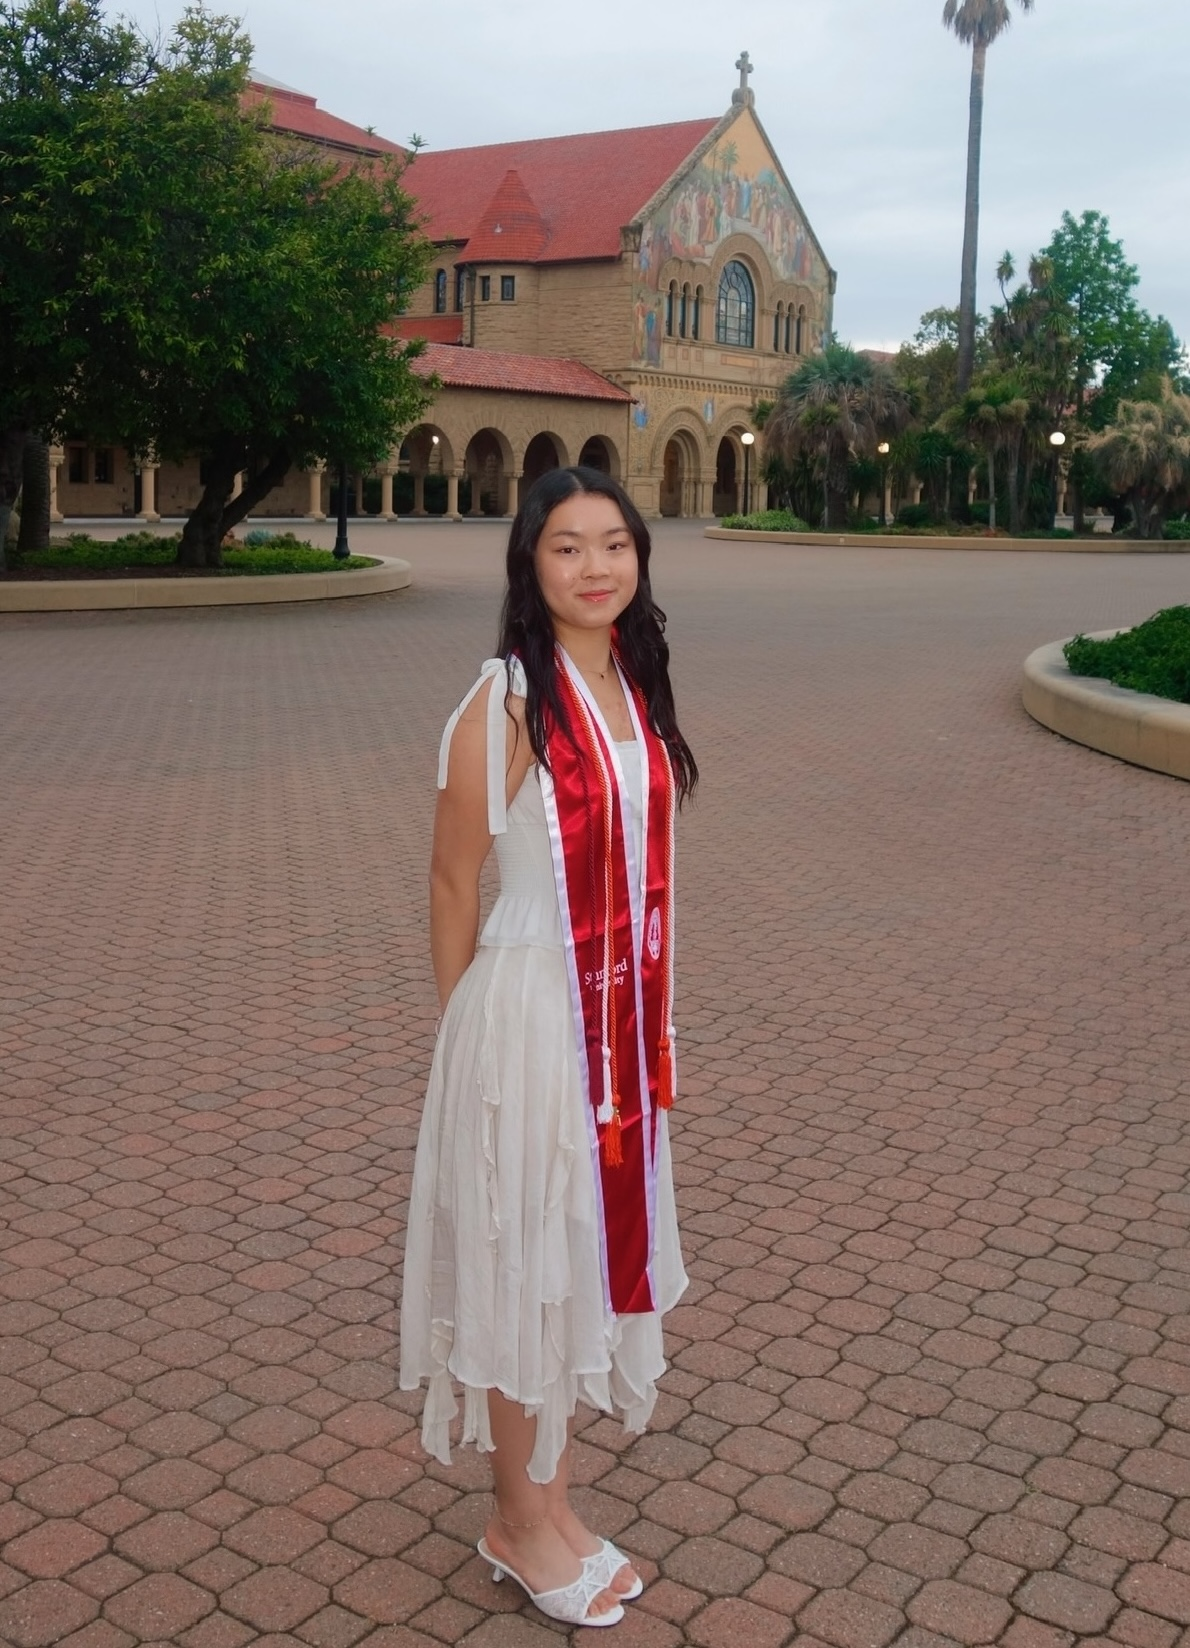
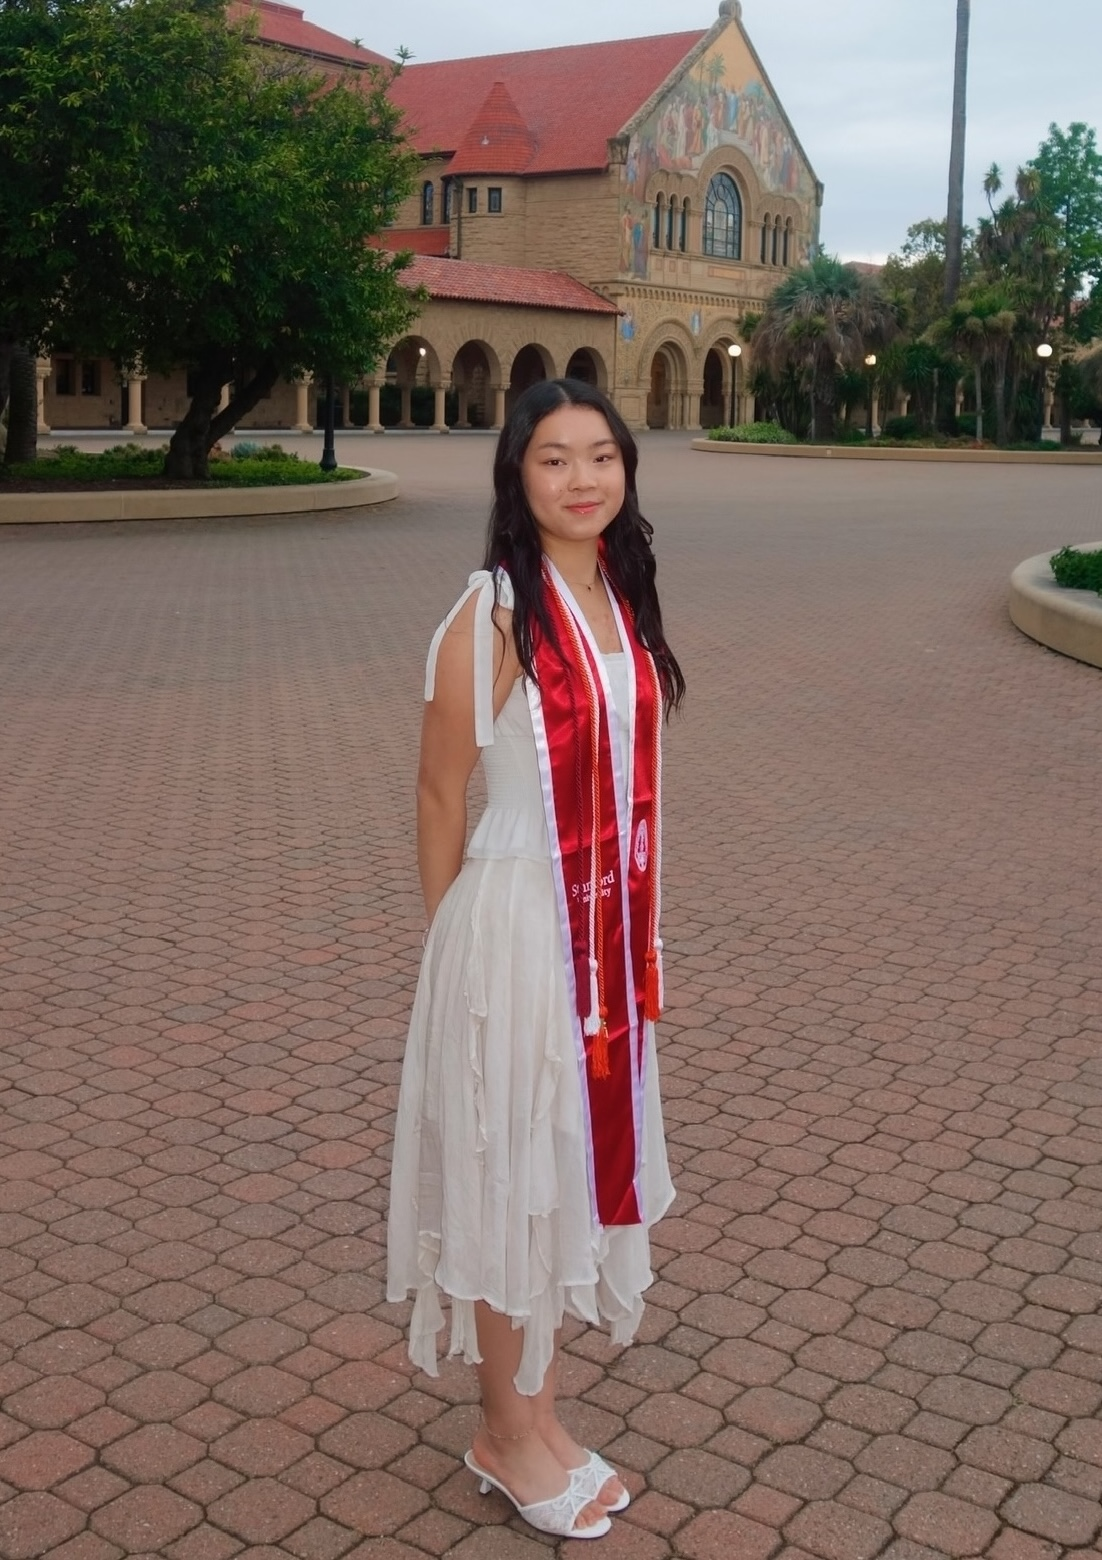
Fix font color for set

diff --git a/css/music-style.css b/css/music-style.css
@@ -391,7 +391,7 @@ home
 
 .spotify-now-playing__brand {
 	color: #5f5966;
-	font-size: 34px;
+	font-size: 50px;
 	line-height: 1;
 	flex-shrink: 0;
 }
@@ -808,7 +808,7 @@ body.dark-mode .song-grid-empty {
 #sets .prev-btn,
 #sets .next-btn {
 	position: absolute;
-	top: 32px;
+	top: 40px;
 }
 
 #sets .prev-btn {
@@ -916,7 +916,8 @@ body.dark-mode .song-grid-empty {
 	font-size: 19px;
 	font-weight: bold;
 	text-align: center;
-	margin-bottom: 80px;
+	color: #5f5966;
+	margin-bottom: 60px;
 	background: transparent !important;
 	transition: transform 0.2s ease, opacity 0.2s ease;
 }
@@ -929,6 +930,7 @@ body.dark-mode .song-grid-empty {
 
 .set-favorite-timestamp {
 	margin-top: 6px;
+	color: #5f5966;
 	font-size: 14px;
 	font-style: italic;
 	text-align: center;
